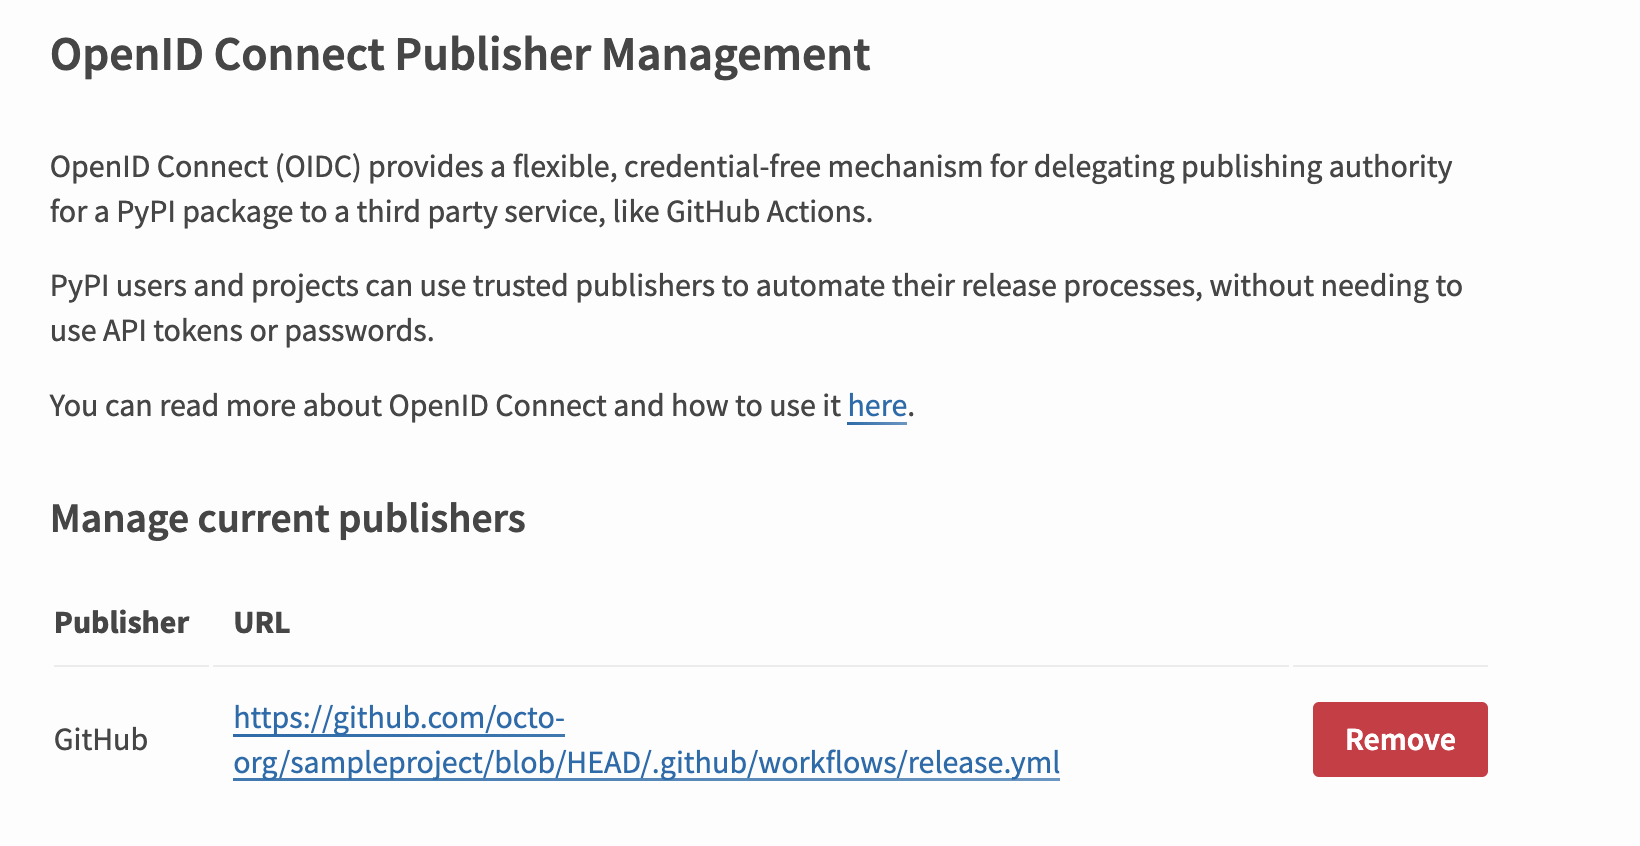
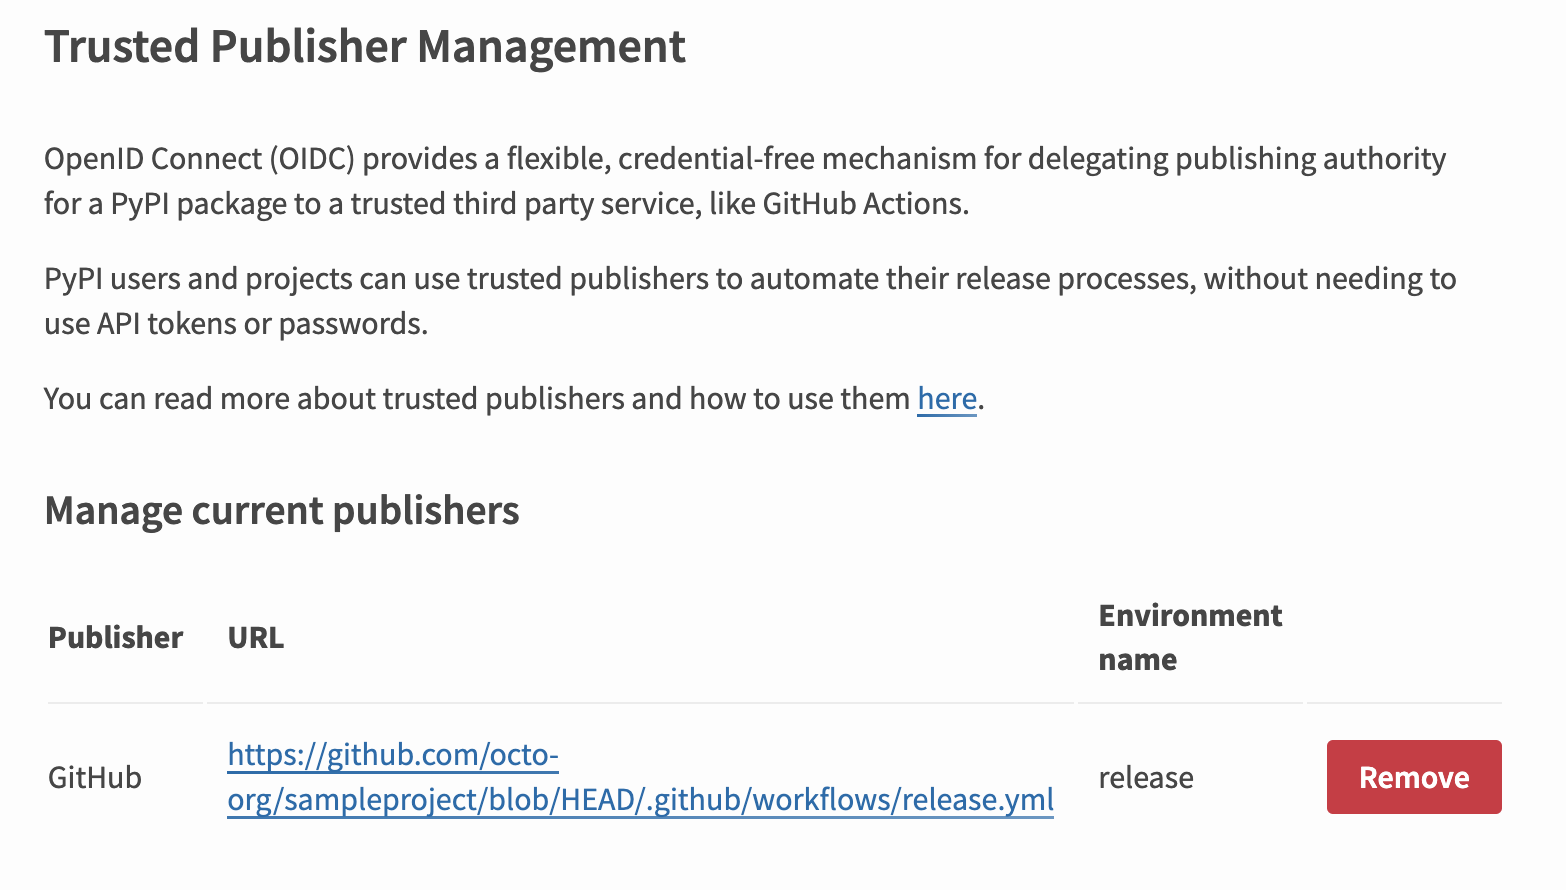
docs: update adding-a-publisher images

diff --git a/docs/user/trusted-publishers/adding-a-publisher.md b/docs/user/trusted-publishers/adding-a-publisher.md
@@ -28,10 +28,17 @@ filename of the GitHub Actions workflow that's authorized to upload to
 PyPI.
 
 For example, if you have a project at `https://github.com/octo-org/sampleproject`
-that uses a publishing workflow defined in `.github/workflows/release.yml`,
-then you'd do the following:
+that uses a publishing workflow defined in `.github/workflows/release.yml`
+and a custom environment named `release`, then you'd do the following:
 
 ![](/assets/project-publishing-form.png)
+
+!!! note
+
+    Configuring an environment is optional, but **strongly** recommended:
+    with a GitHub environment, you can apply additional restrictions to
+    your trusted workflow, such as requiring manual approval on each run
+    by a trusted subset of repository maintainers.
 
 Once you click "Add", your publisher will be registered and will appear
 at the top of the page:
